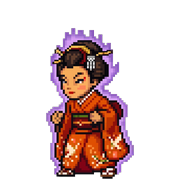
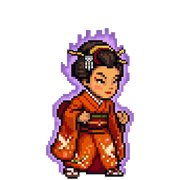
🐑 Keiko mira derecha + Meta sin sello + transformación 2s
- k_base.png: usa sprite_keiko_t.png (ya mira a la derecha, sin flip)
- Meta.png: fondo blanco eliminado + sello inferior-derecho borrado
- Demora antes de transformarse: 4s → 2s

Changed region(s): [[0.25, 0.1389, 0.75, 1.0]]

diff --git a/index.html b/index.html
@@ -331,9 +331,9 @@ function startLoop(imgId, charId, frames){
   setTimeout(step, document.getElementById(charId).classList.contains('leader') ? 110 : 160);
 }
 
-// Tras 4s de quietud arrancar la animación de borregos
-setTimeout(() => startLoop('img-r', 'fw-r', SEQ_R), 4000);
-setTimeout(() => startLoop('img-k', 'fw-k', SEQ_K), 4000);
+// Tras 2s de quietud arrancar la animación de borregos
+setTimeout(() => startLoop('img-r', 'fw-r', SEQ_R), 2000);
+setTimeout(() => startLoop('img-k', 'fw-k', SEQ_K), 2000);
 
 function updateArena(r,k){
   const rP=+r.pct, kP=+k.pct, rLeads=rP>=kP;